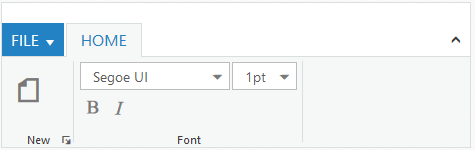
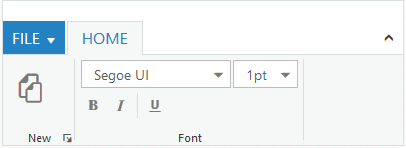
Ribbon doc changes

diff --git a/js/Ribbon/Getting-Started.md b/js/Ribbon/Getting-Started.md
@@ -379,15 +379,19 @@ The **Ribbon** control has control separator support. Set enableSeparator value 
 	      position: relative;
 	      left: -12px;
 	      top: -4px;
+		  font-family: "ej-webfont";
 	      }
 	      .e-ribbon .e-ribbonitalic:before {
 	      content: "\e635";
+		  font-family: "ej-webfont";
 	      }
 	      .e-ribbon .bold:before {
 	      content: "\e636";
+		  font-family: "ej-webfont";
 	      }
 	      .e-ribbon .e-ribbonunderline:before {
 	      content: "\e634";
+		  font-family: "ej-webfont";
 	      }
 	   </style>
 	</body>
